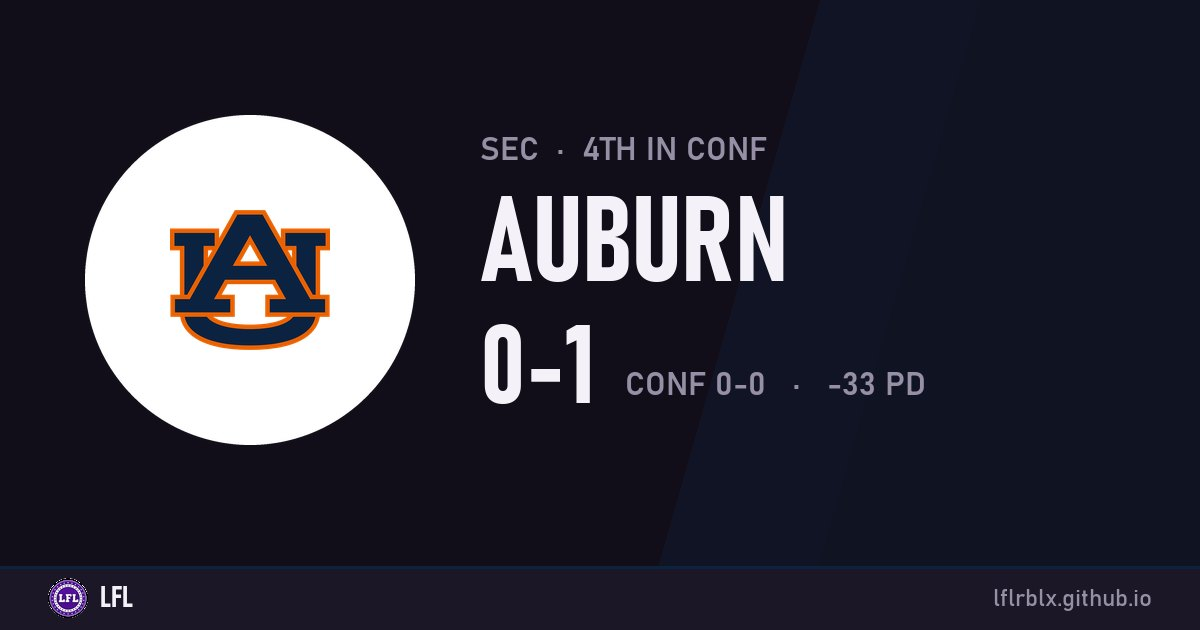
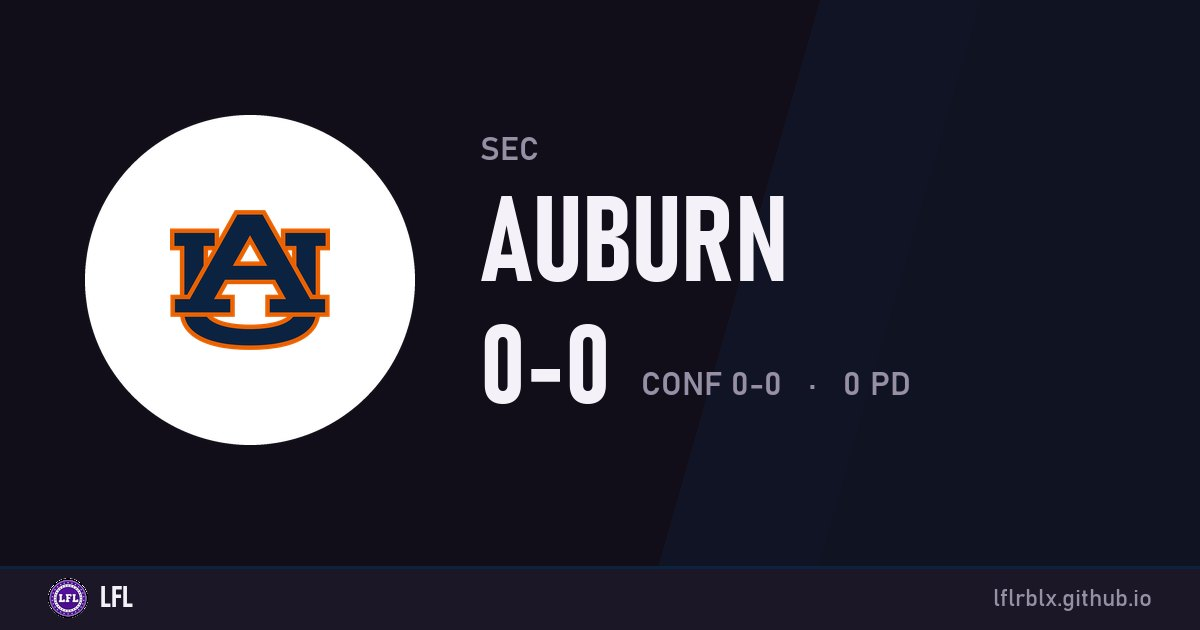
Stats update 2026-11-22 12:06

Changed region(s): [[0.4625, 0.5127, 0.7708, 0.6333], [0.4933, 0.2111, 0.6475, 0.2714]]

diff --git a/team/auburn/index.html b/team/auburn/index.html
@@ -5,20 +5,20 @@
   <meta name="viewport" content="width=device-width, initial-scale=1, viewport-fit=cover">
   <!--meta:start-->
   <title>Auburn · LFL</title>
-  <meta name="description" content="Auburn · SEC · 0-1 (0-0 conf) · -33 PD. Schedule, results, leaders and roster.">
+  <meta name="description" content="Auburn · SEC · 0-0 (0-0 conf) · 0 PD. Schedule, results, leaders and roster.">
   <meta name="theme-color" content="#0c2340">
   <meta property="og:site_name" content="LFL">
   <meta property="og:type" content="website">
   <meta property="og:title" content="Auburn · LFL">
-  <meta property="og:description" content="Auburn · SEC · 0-1 (0-0 conf) · -33 PD. Schedule, results, leaders and roster.">
+  <meta property="og:description" content="Auburn · SEC · 0-0 (0-0 conf) · 0 PD. Schedule, results, leaders and roster.">
   <meta property="og:url" content="https://lflrblx.github.io/team/auburn">
-  <meta property="og:image" content="https://lflrblx.github.io/og/team-auburn.jpg?v=17ba116508">
+  <meta property="og:image" content="https://lflrblx.github.io/og/team-auburn.jpg?v=5d6ca52f4c">
   <meta property="og:image:width" content="1200">
   <meta property="og:image:height" content="630">
   <meta name="twitter:card" content="summary_large_image">
   <meta name="twitter:title" content="Auburn · LFL">
-  <meta name="twitter:description" content="Auburn · SEC · 0-1 (0-0 conf) · -33 PD. Schedule, results, leaders and roster.">
-  <meta name="twitter:image" content="https://lflrblx.github.io/og/team-auburn.jpg?v=17ba116508">
+  <meta name="twitter:description" content="Auburn · SEC · 0-0 (0-0 conf) · 0 PD. Schedule, results, leaders and roster.">
+  <meta name="twitter:image" content="https://lflrblx.github.io/og/team-auburn.jpg?v=5d6ca52f4c">
   <!--meta:end-->
   <link rel="icon" href="/img/favicon.png">
   <link rel="apple-touch-icon" href="/img/apple-touch-icon.png">

diff --git a/team/miami/index.html b/team/miami/index.html
@@ -5,20 +5,20 @@
   <meta name="viewport" content="width=device-width, initial-scale=1, viewport-fit=cover">
   <!--meta:start-->
   <title>Miami · LFL</title>
-  <meta name="description" content="Miami · ACC · 1-0 (0-0 conf) · +33 PD. Schedule, results, leaders and roster.">
+  <meta name="description" content="Miami · ACC · 0-0 (0-0 conf) · 0 PD. Schedule, results, leaders and roster.">
   <meta name="theme-color" content="#005030">
   <meta property="og:site_name" content="LFL">
   <meta property="og:type" content="website">
   <meta property="og:title" content="Miami · LFL">
-  <meta property="og:description" content="Miami · ACC · 1-0 (0-0 conf) · +33 PD. Schedule, results, leaders and roster.">
+  <meta property="og:description" content="Miami · ACC · 0-0 (0-0 conf) · 0 PD. Schedule, results, leaders and roster.">
   <meta property="og:url" content="https://lflrblx.github.io/team/miami">
-  <meta property="og:image" content="https://lflrblx.github.io/og/team-miami.jpg?v=a3527ffd9d">
+  <meta property="og:image" content="https://lflrblx.github.io/og/team-miami.jpg?v=a948cb1e03">
   <meta property="og:image:width" content="1200">
   <meta property="og:image:height" content="630">
   <meta name="twitter:card" content="summary_large_image">
   <meta name="twitter:title" content="Miami · LFL">
-  <meta name="twitter:description" content="Miami · ACC · 1-0 (0-0 conf) · +33 PD. Schedule, results, leaders and roster.">
-  <meta name="twitter:image" content="https://lflrblx.github.io/og/team-miami.jpg?v=a3527ffd9d">
+  <meta name="twitter:description" content="Miami · ACC · 0-0 (0-0 conf) · 0 PD. Schedule, results, leaders and roster.">
+  <meta name="twitter:image" content="https://lflrblx.github.io/og/team-miami.jpg?v=a948cb1e03">
   <!--meta:end-->
   <link rel="icon" href="/img/favicon.png">
   <link rel="apple-touch-icon" href="/img/apple-touch-icon.png">
